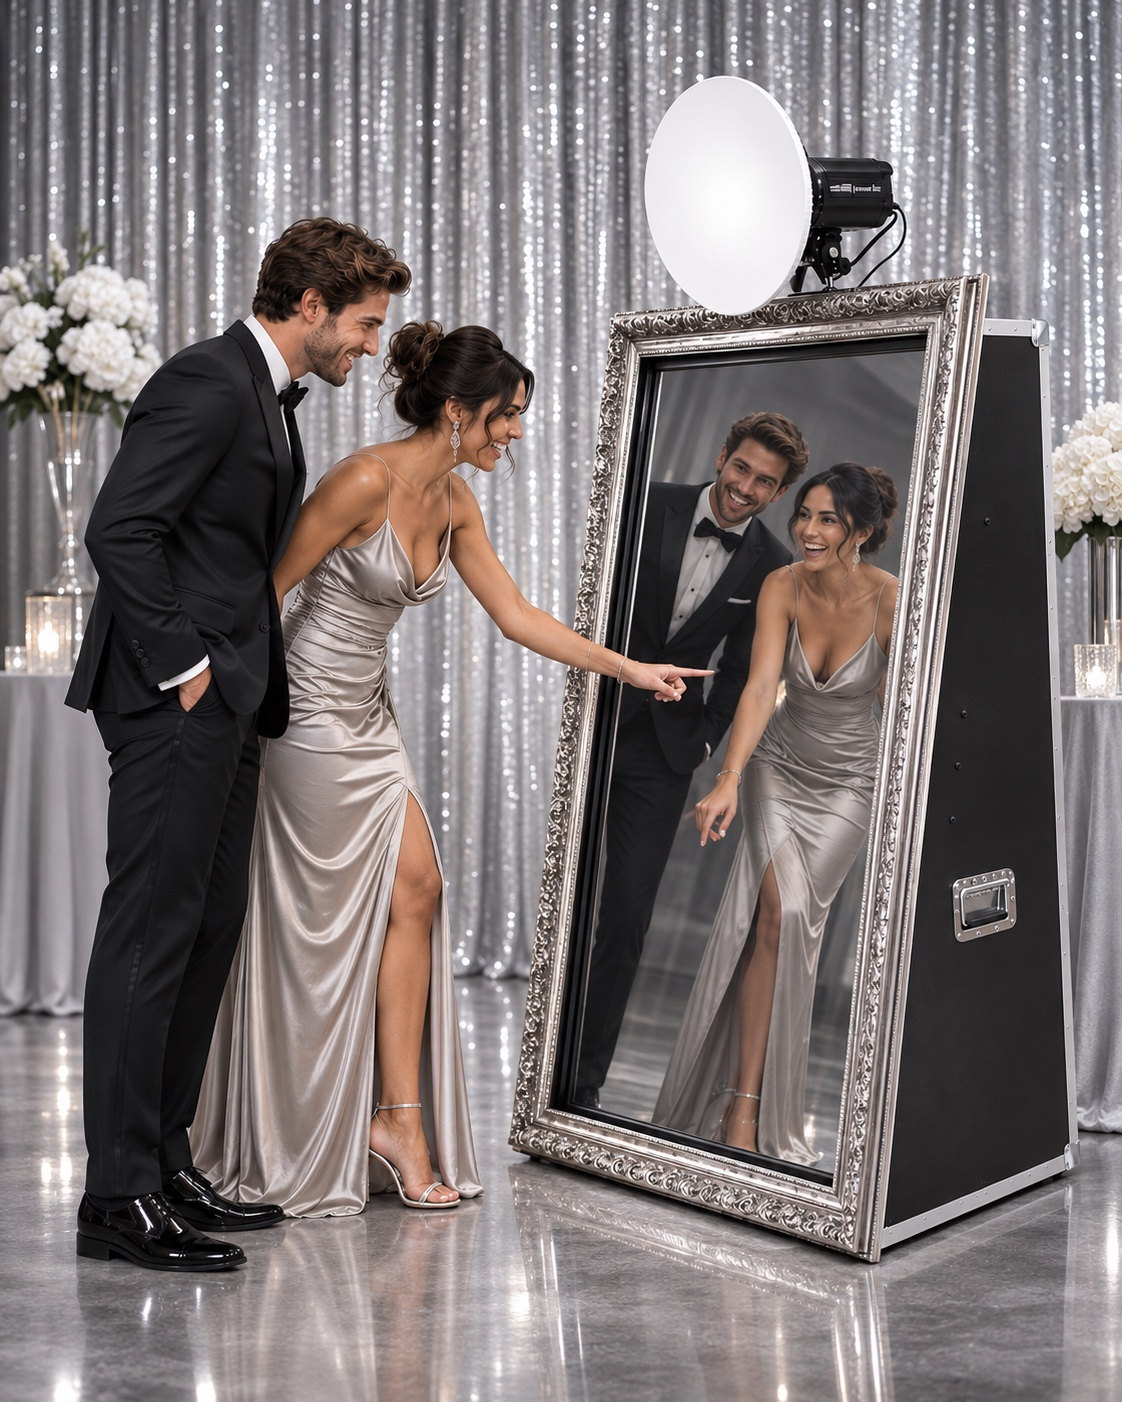
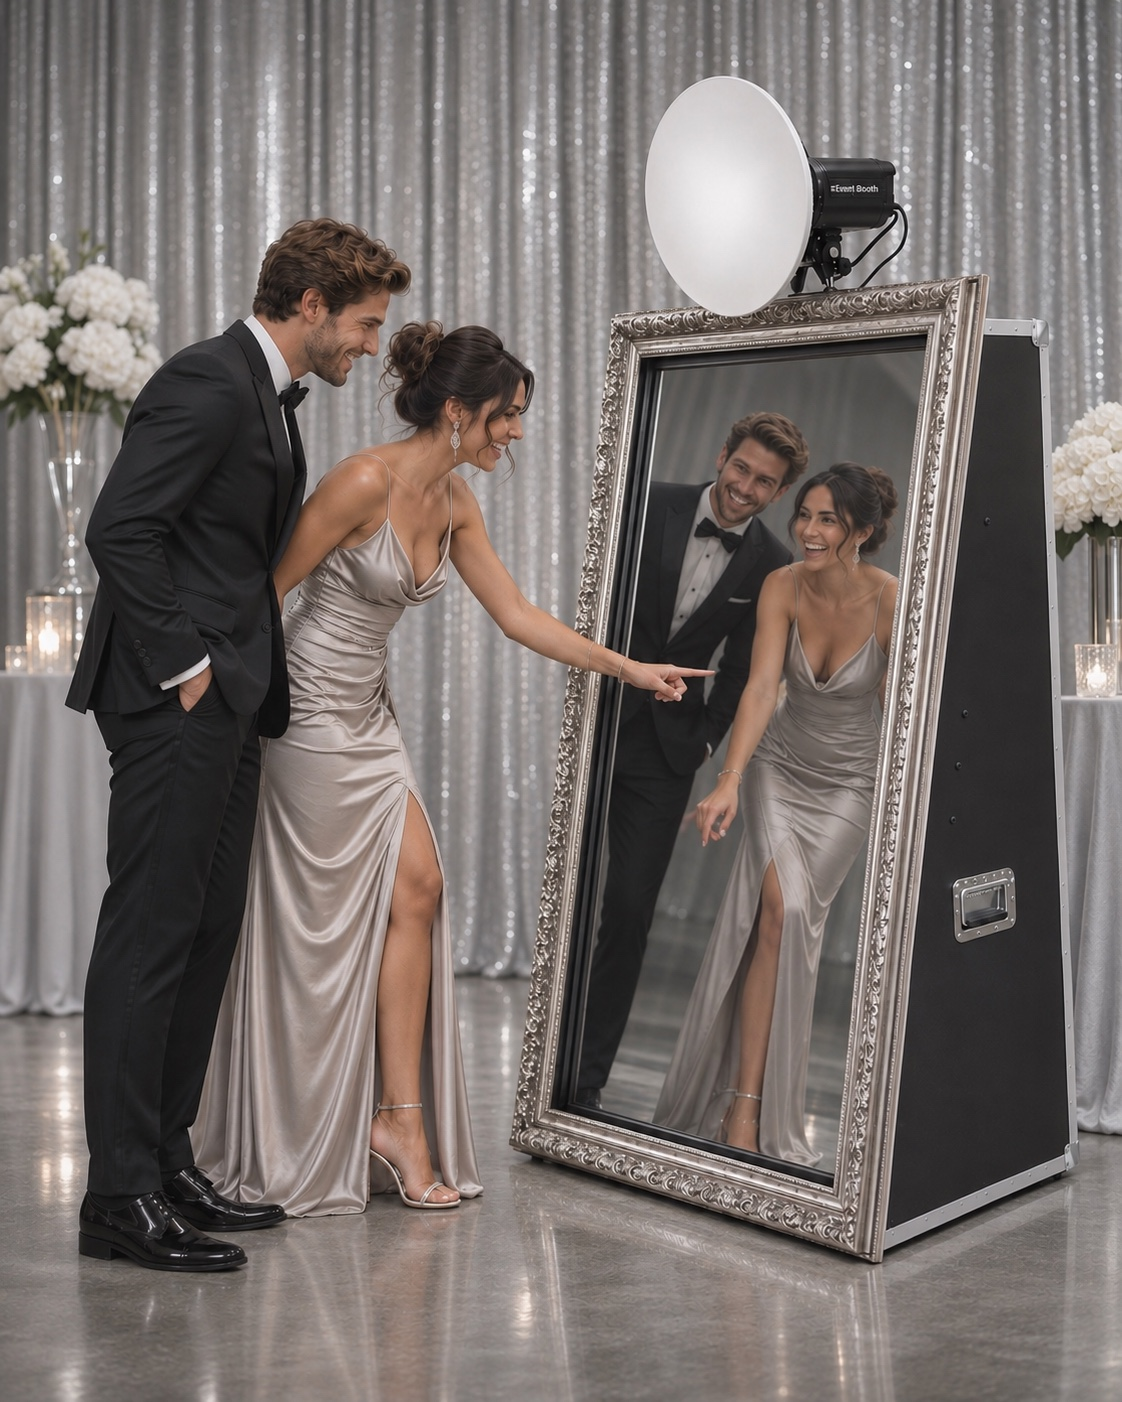
Soften all generated website photography

diff --git a/public/staging-site/design.css b/public/staging-site/design.css
@@ -55,3 +55,5 @@ html{overflow-x:clip}.design-footer{overflow:hidden}
 .business-selection [data-business-experiences]{display:grid;grid-template-columns:repeat(2,minmax(0,1fr));gap:8px}
 .business-selection [data-business-addons]{max-height:none;overflow:visible;display:grid;grid-template-columns:repeat(2,minmax(0,1fr));gap:8px 16px}
 @media(max-width:720px){.business-selection{display:flex;flex-direction:column}.business-selection>section,.business-selection>.custom-quote-card{width:100%}.business-selection [data-business-addons]{grid-template-columns:1fr}}
+/* Consistent restrained photographic finish, including mockup-derived photos. */
+.hero-art img,.experience-tile>img,.experience-tile>.crop-picture img,.experience-landscape img,.audio-art img,.about-split>img,.equipment-cutout{filter:saturate(.82) contrast(.96)}
